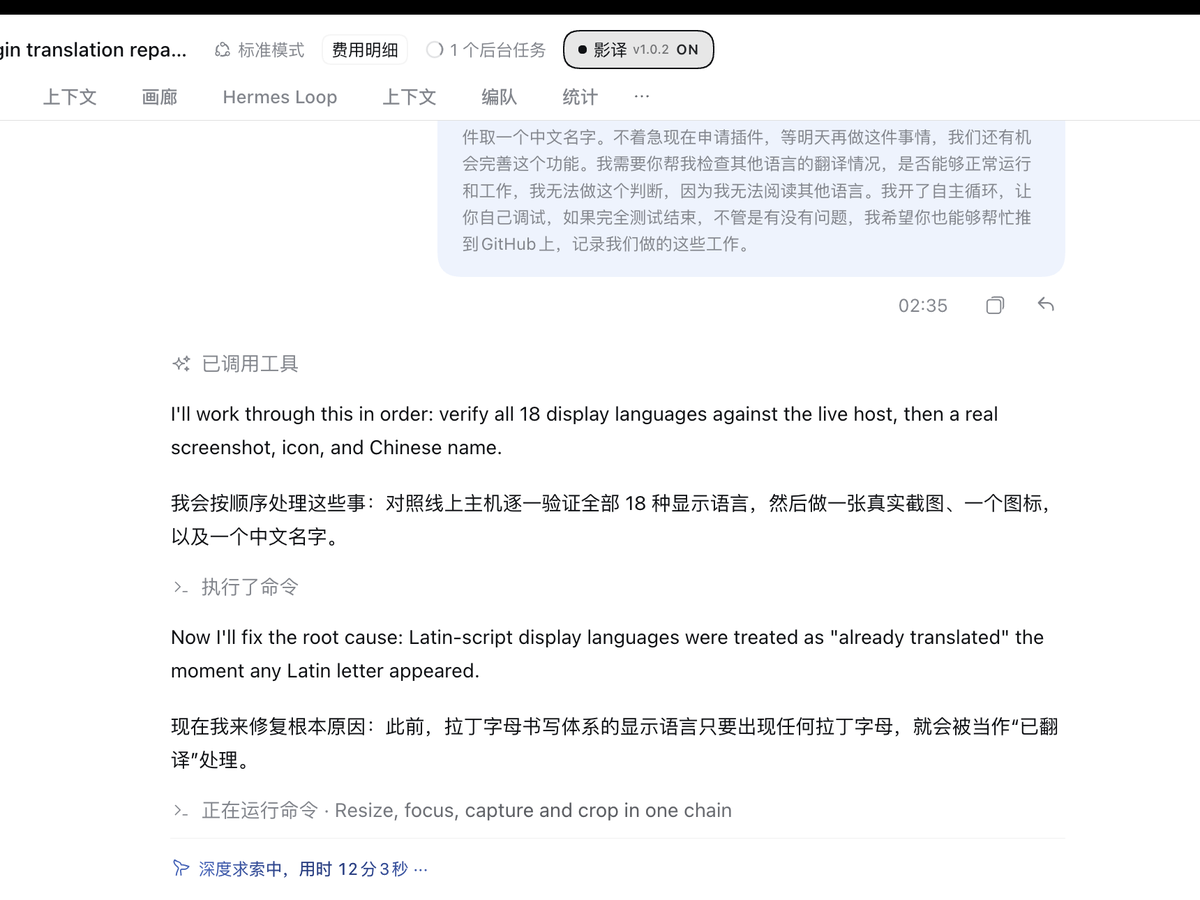
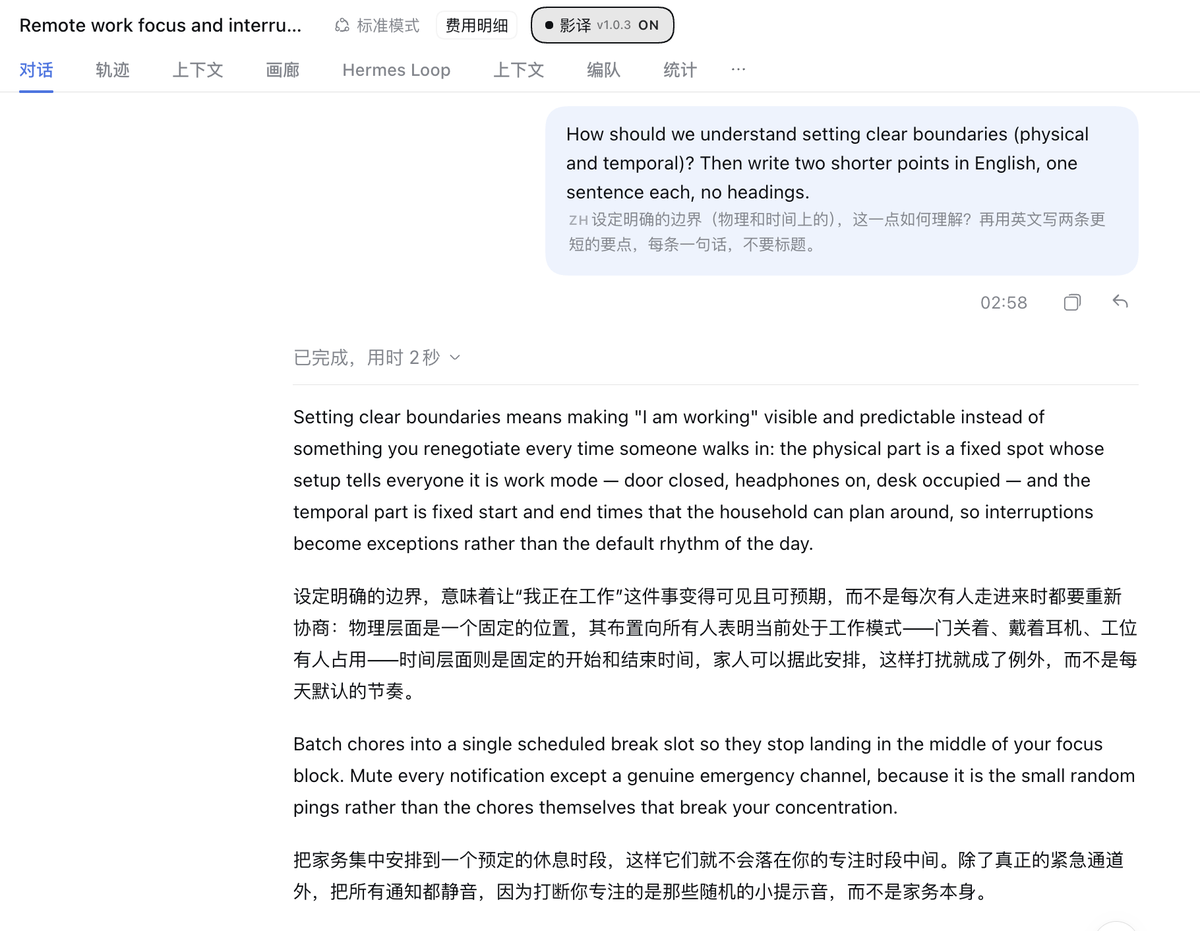
docs: 换成中性演示会话的真实截图，并记录演示会话的两条约束

Changed region(s): [[0.1233, 0.3733, 0.9558, 0.9956], [0.0, 0.0, 1.0, 0.28], [0.8017, 0.3111, 0.8942, 0.3422]]

diff --git a/docs/PLAN.md b/docs/PLAN.md
@@ -594,3 +594,26 @@ node tests/send-path.cjs lib/client.js
 **同批**：插件中文名定为 **影译**；`docs/icon.png`（512×512，深色圆角 + 白「文」蓝「A」）；
 `docs/preview.png` 换成运行时真实截图；会话头开关从继承来的「双语 v4.4」改成「影译 + 本包版本号」，
 版本号由 `build.mjs` 从 `package.json` 注入（`__SBP_VERSION__`），避免与另一个双语插件混淆。
+
+## D19：截图必须用中性演示会话，且演示会话要显式要求英文（2026-11-18 凌晨）
+
+**背景**：D18 里换上的 `docs/preview.png` 是从本开发会话裁的，用户否掉了——
+「that would expose our development work」。
+
+**决定**：
+
+1. 商店/README 截图一律在**新建的中性会话**里拍，只裁对话列，绝不带侧栏私有标题、费用、账号名。
+2. 演示会话必须自己在提示里写「用英文回答」：助手的回复语言跟**对话上下文**走，不是插件决定的。
+   本开发会话一直英文，是因为用户早前说过 `Reply in English for the upcoming work arrangements`。
+3. 中性会话的第一条消息不要用来演示：插件在会话建立前还没接管输入框。
+
+**两个实测发现（前者是缺陷，待修）**：
+
+- **新会话的第一条消息不会翻译**：composer 下方连 `EN / 翻译中` 都不出现，直接 Enter 就把原文发出去，
+  模型收到中文、也用中文回。等第一轮结束、`conversation.composer.dock` 的 shadow 面板挂上后，
+  后续消息才正常。演示脚本因此先发一句 `hi` 建立会话，再发真正要展示的那条。
+- **助手默认说中文**：插件只保证「模型读到英文」，不强制模型回答的语种；要英文回答必须写在提示里。
+
+**结果**：`docs/preview.png`（1200×931）来自会话 `Remote work focus and interru…`：
+用户气泡 = 英文（实际发出的）+ `ZH` 徽章 + 中文原文；助手两条英文要点下方各有中文对照；
+顶部 `影译 v1.0.3 ON`。无侧栏、无费用、无账号信息。
